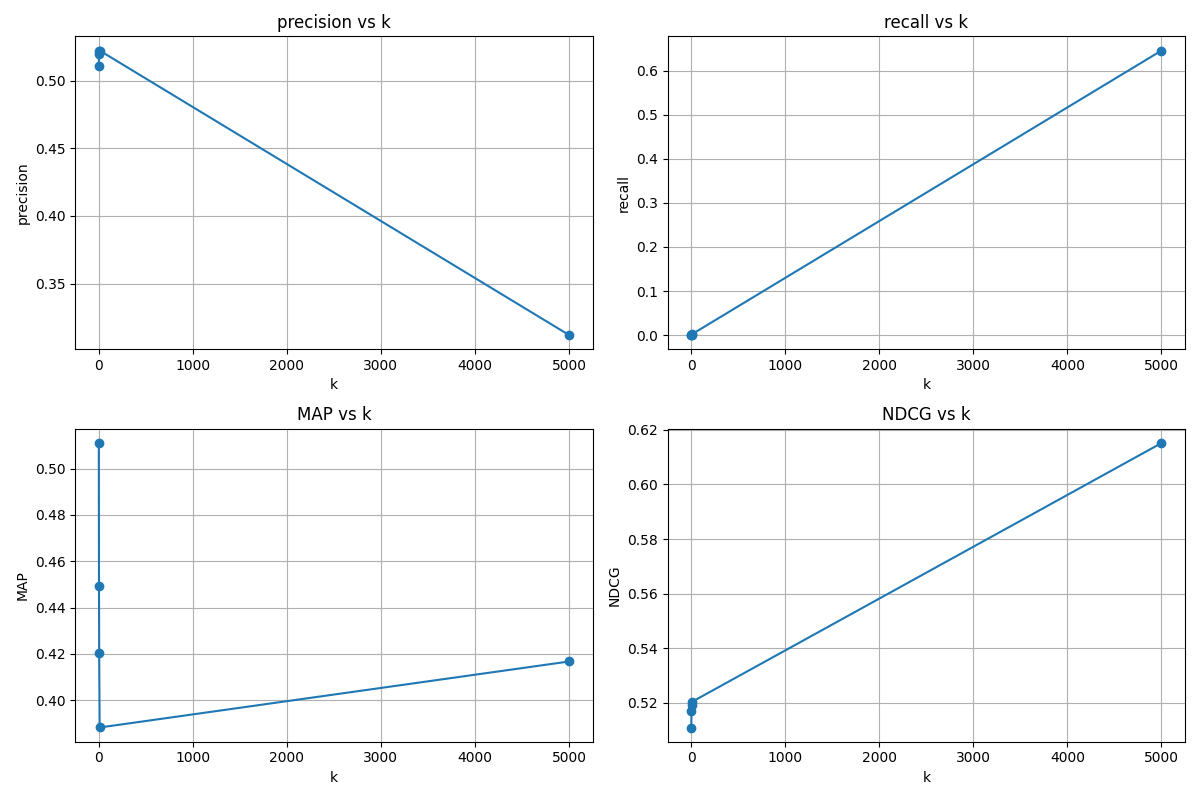
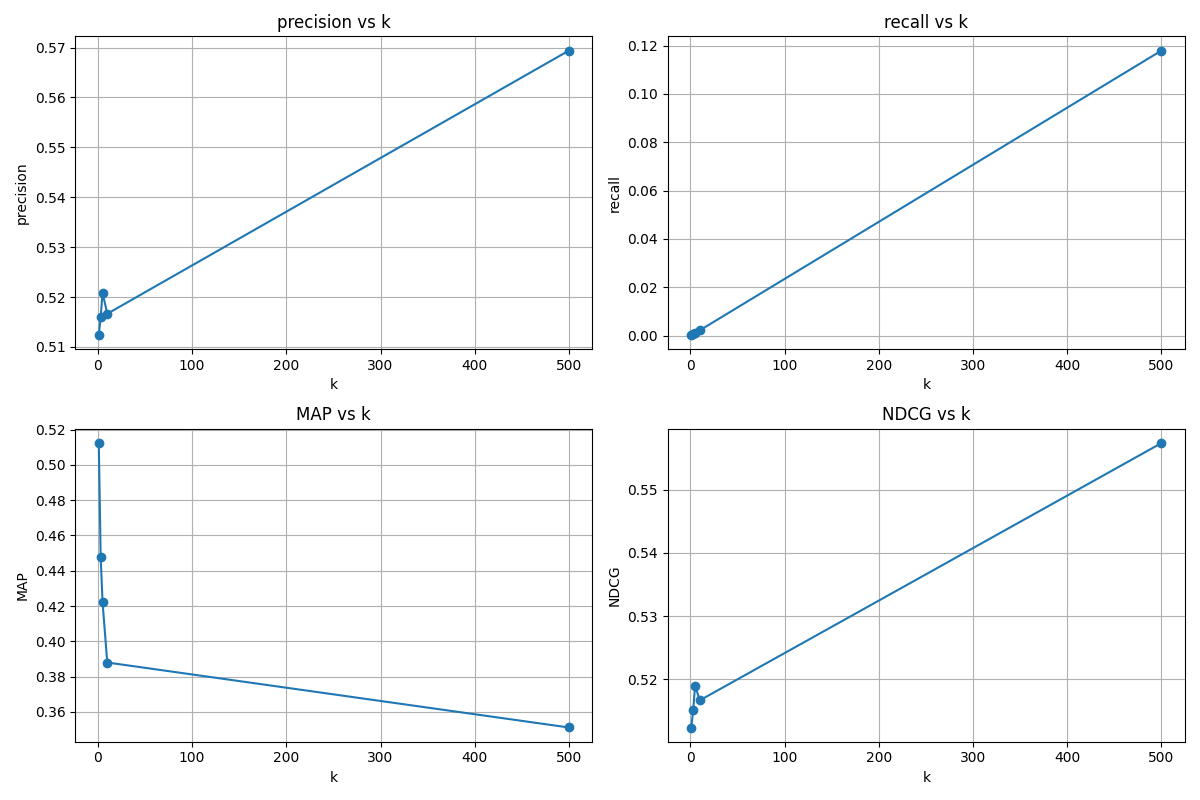
feat(global): optimizing weights for performance

diff --git a/src/recommenders/content_based_recommender.py b/src/recommenders/content_based_recommender.py
@@ -14,10 +14,10 @@ logging.basicConfig(level=logging.INFO)
 logger = logging.getLogger(__name__)
 
 FEATURE_WEIGHTS = {
-    "engagement_score": 3.0,
+    "engagement_score": 3.5,
     "hybrid_score": 3.0,
-    "popularity_score": 2.0,
-    "tags": 0.5,
+    "popularity_score": 15,
+    "tags": 3.5,
 }
 
 
@@ -55,7 +55,7 @@ def generate_recommendations(recommender, test_users, top_n=10):
             user_id,
             n_items=top_n,
             exclude_watched=True,
-            diversity_factor=0,
+            diversity_factor=0.2,
         )
 
         for rank, (video_id, score) in enumerate(recs, 1):
@@ -102,6 +102,7 @@ def main(top_n=10):
     recs_df = save_recommendations(recommendations, top_n)
 
     print_recommendation_stats(recs_df, test_users)
+    logger.info(f"Generated recommendations with weights: {FEATURE_WEIGHTS}")
 
 
 if __name__ == "__main__":

diff --git a/README.md b/README.md
@@ -258,13 +258,13 @@ def ndcg_at_k(recommended, relevant, k):
 
 The following table summarizes the system's performance at different $k$ values:
 
-| k    | Precision | Recall  | MAP   | NDCG  |
-| :--- | :-------- | :------ | :---- | :---- |
-| 1    | 0.511     | 0.00021 | 0.511 | 0.511 |
-| 3    | 0.519     | 0.00065 | 0.449 | 0.517 |
-| 5    | 0.522     | 0.00109 | 0.420 | 0.519 |
-| 10   | 0.522     | 0.00218 | 0.388 | 0.520 |
-| 5000 | 0.312     | 0.645   | 0.417 | 0.615 |
+| k   | Precision | Recall  | MAP   | NDCG  |
+| :-- | :-------- | :------ | :---- | :---- |
+| 1   | 0.512     | 0.00021 | 0.512 | 0.512 |
+| 3   | 0.516     | 0.00065 | 0.448 | 0.515 |
+| 5   | 0.521     | 0.00109 | 0.422 | 0.519 |
+| 10  | 0.517     | 0.00215 | 0.388 | 0.517 |
+| 500 | 0.569     | 0.11797 | 0.351 | 0.557 |
 
 **Interpretation:**
 
@@ -279,36 +279,40 @@ _This figure shows how Precision, Recall, MAP, and NDCG evolve with $k$._
 
 ---
 
-## **7.1. Pipeline Execution Log**
+### **7.1. Pipeline Execution Log**
 
 Below is the execution log from the recommendation pipeline, showing the processing steps and timing:
 
-```bash
-2025-05-15 10:41:20,978 - main-pipeline - INFO - Starting recommendation pipeline...
-2025-05-15 10:41:20,979 - main-pipeline - INFO - Training model and generating top-1000 recommendations...
-2025-05-15 10:43:42,762 - src.recommenders.content_based_recommender - INFO - Loaded train data with 12530806 interactions
-2025-05-15 10:44:12,017 - src.recommenders.content_based_recommender - INFO - Loaded test data with 4676570 interactions
-2025-05-15 10:44:12,038 - src.recommenders.content_based_recommender - INFO - Loaded item features with 10728 items
-2025-05-15 10:44:12,109 - src.recommenders.content_based_recommender - INFO - Loaded item categories with 10728 items
-2025-05-15 10:44:12,127 - src.recommenders.content_based_recommender - INFO - Created complete video features with 10728 items
-2025-05-15 10:44:12,177 - src.models.content_model - INFO - Building content-based recommender...
-2025-05-15 10:45:07,259 - src.models.content_model - INFO - Content-based model built with 10728 videos and 7176 users
-2025-05-15 10:45:08,058 - src.recommenders.content_based_recommender - INFO - Generating recommendations for 1411 users in test set
-2025-05-15 10:45:08,654 - src.recommenders.content_based_recommender - INFO - Processed 100/1411 users
-2025-05-15 10:45:09,167 - src.recommenders.content_based_recommender - INFO - Processed 200/1411 users
+```log
+
+2025-05-15 19:06:20,538 - main-pipeline - INFO - Starting recommendation pipeline...
+2025-05-15 19:06:20,732 - main-pipeline - INFO - Preprocessing training data...
+2025-05-15 19:07:23,281 - src.data.preprocess - INFO - Saved train_merged.csv with shape: (12530806, 7)
+2025-05-15 19:07:23,539 - main-pipeline - INFO - Preprocessing testing data...
+2025-05-15 19:07:43,883 - src.data.preprocess - INFO - Saved test_merged.csv with shape: (4676570, 7)
+2025-05-15 19:07:43,939 - main-pipeline - INFO - Generating item engagement features...
+2025-05-15 19:07:43,940 - src.data.item_engagement_features - INFO - Generating item features from train_merged.csv...
+2025-05-15 19:07:48,758 - src.data.item_engagement_features - INFO - Saved item features to data/features/item_engagement_features.csv with shape: (10728, 14)
+2025-05-15 19:07:48,783 - main-pipeline - INFO - Training model and generating top-500 recommendations...
+2025-05-15 19:07:53,690 - src.recommenders.content_based_recommender - INFO - Loaded train data with 12530806 interactions
+2025-05-15 19:07:55,352 - src.recommenders.content_based_recommender - INFO - Loaded test data with 4676570 interactions
+2025-05-15 19:07:55,368 - src.recommenders.content_based_recommender - INFO - Loaded item features with 10728 items
+2025-05-15 19:07:55,368 - src.models.content_model - INFO - Building content-based recommender...
+2025-05-15 19:08:03,257 - src.models.content_model - INFO - Content-based model built with 10728 videos and 7176 users
+2025-05-15 19:08:03,287 - src.recommenders.content_based_recommender - INFO - Generating recommendations for 1411 users in test set
+2025-05-15 19:08:03,716 - src.recommenders.content_based_recommender - INFO - Processed 100/1411 users
+2025-05-15 19:08:04,154 - src.recommenders.content_based_recommender - INFO - Processed 200/1411 users
 ...
-2025-05-15 10:45:14,540 - src.recommenders.content_based_recommender - INFO - Processed 1300/1411 users
-2025-05-15 10:45:15,023 - src.recommenders.content_based_recommender - INFO - Processed 1400/1411 users
-2025-05-15 10:45:17,736 - src.recommenders.content_based_recommender - INFO - Saved 1411000 recommendations to data/results/content_based_top1000_recommendations.csv
-2025-05-15 10:45:17,750 - src.recommenders.content_based_recommender - INFO - Average recommendations per user: 1000.00
-2025-05-15 10:45:17,750 - src.recommenders.content_based_recommender - INFO - Min recommendations per user: 1000
-2025-05-15 10:45:17,750 - src.recommenders.content_based_recommender - INFO - Recommendation coverage: 1411/1411 users (100.00%)
-2025-05-15 10:45:19,488 - main-pipeline - INFO - Evaluating model with k=[10, 50, 100, 500, 1000], threshold=0.5...
-2025-05-15 10:46:47,899 - main-pipeline - INFO - Starting recommendation pipeline...
-2025-05-15 10:46:47,900 - main-pipeline - INFO - Training model and generating top-1000 recommendations...
-2025-05-15 10:47:02,788 - main-pipeline - INFO - Starting recommendation pipeline...
-2025-05-15 10:47:02,788 - main-pipeline - INFO - Evaluating model with k=[10, 50, 100, 500, 1000], threshold=0.5...
-2025-05-15 10:48:02,566 - main-pipeline - INFO - Pipeline completed in 59.78 seconds.
+2025-05-15 19:08:08,823 - src.recommenders.content_based_recommender - INFO - Processed 1300/1411 users
+2025-05-15 19:08:09,242 - src.recommenders.content_based_recommender - INFO - Processed 1400/1411 users
+2025-05-15 19:08:10,579 - src.recommenders.content_based_recommender - INFO - Saved 705500 recommendations to data/results/content_based_top500_recommendations.csv
+2025-05-15 19:08:10,584 - src.recommenders.content_based_recommender - INFO - Average recommendations per user: 500.00
+2025-05-15 19:08:10,584 - src.recommenders.content_based_recommender - INFO - Min recommendations per user: 500
+2025-05-15 19:08:10,584 - src.recommenders.content_based_recommender - INFO - Recommendation coverage: 1411/1411 users (100.00%)
+2025-05-15 19:08:10,584 - src.recommenders.content_based_recommender - INFO - Generated recommendations with weights: {'engagement_score': 3.5, 'hybrid_score': 3.0, 'popularity_score': 15, 'tags': 3.5}
+2025-05-15 19:08:10,824 - main-pipeline - INFO - Evaluating model with k=[1, 3, 5, 10, 500], threshold=0.5...
+2025-05-15 19:08:19,258 - main-pipeline - INFO - Pipeline completed in 118.72 seconds.
+
 ```
 
 ---
